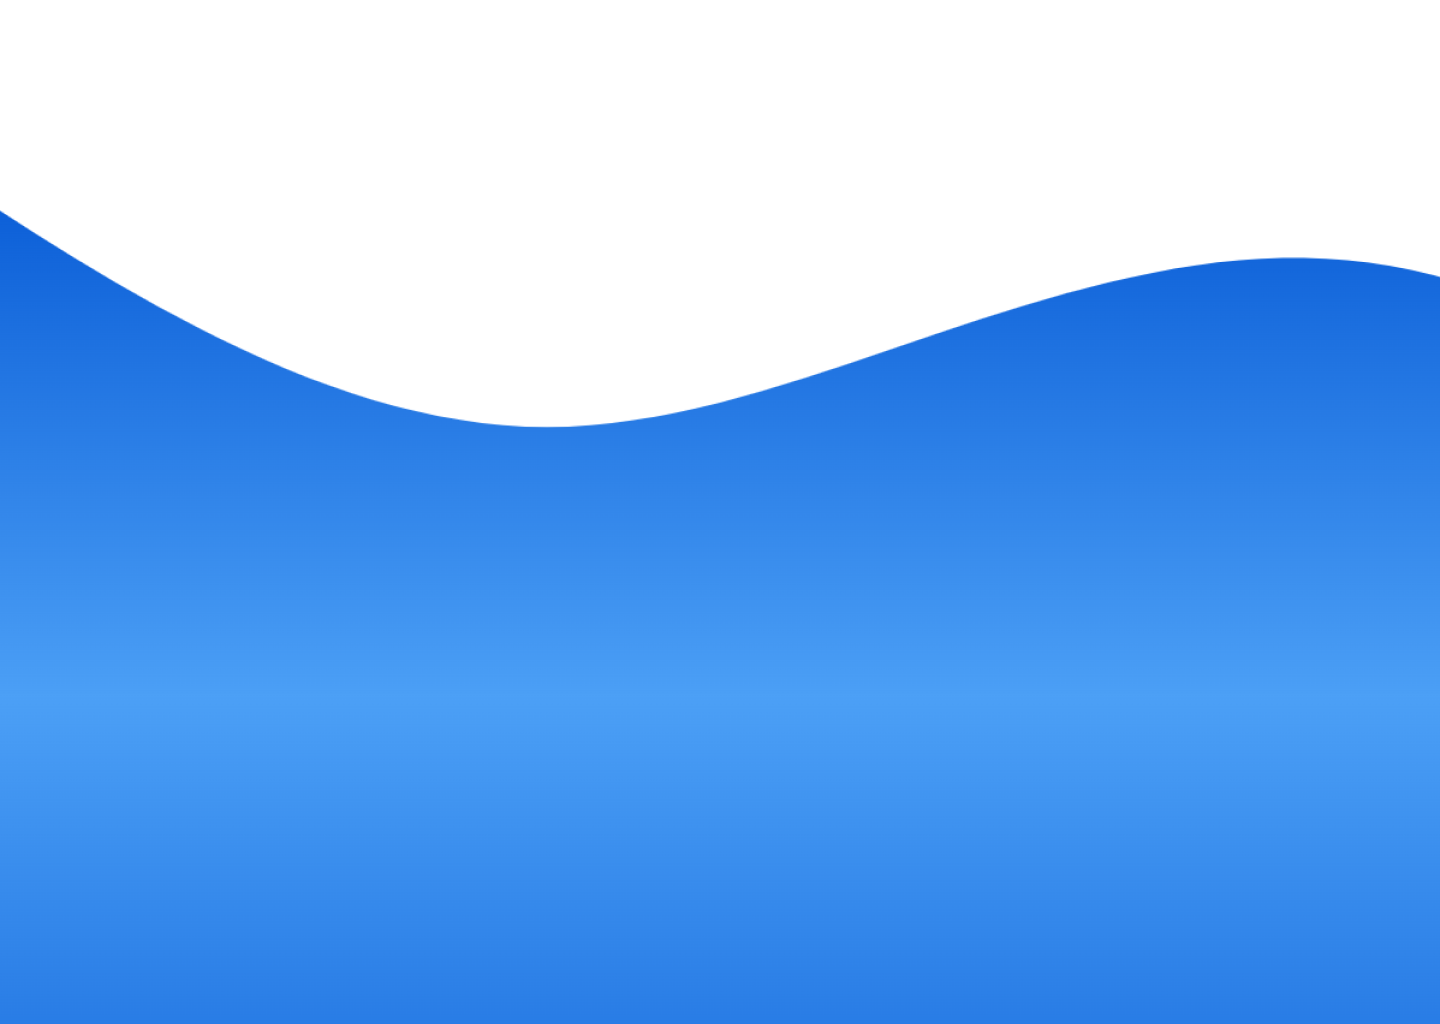
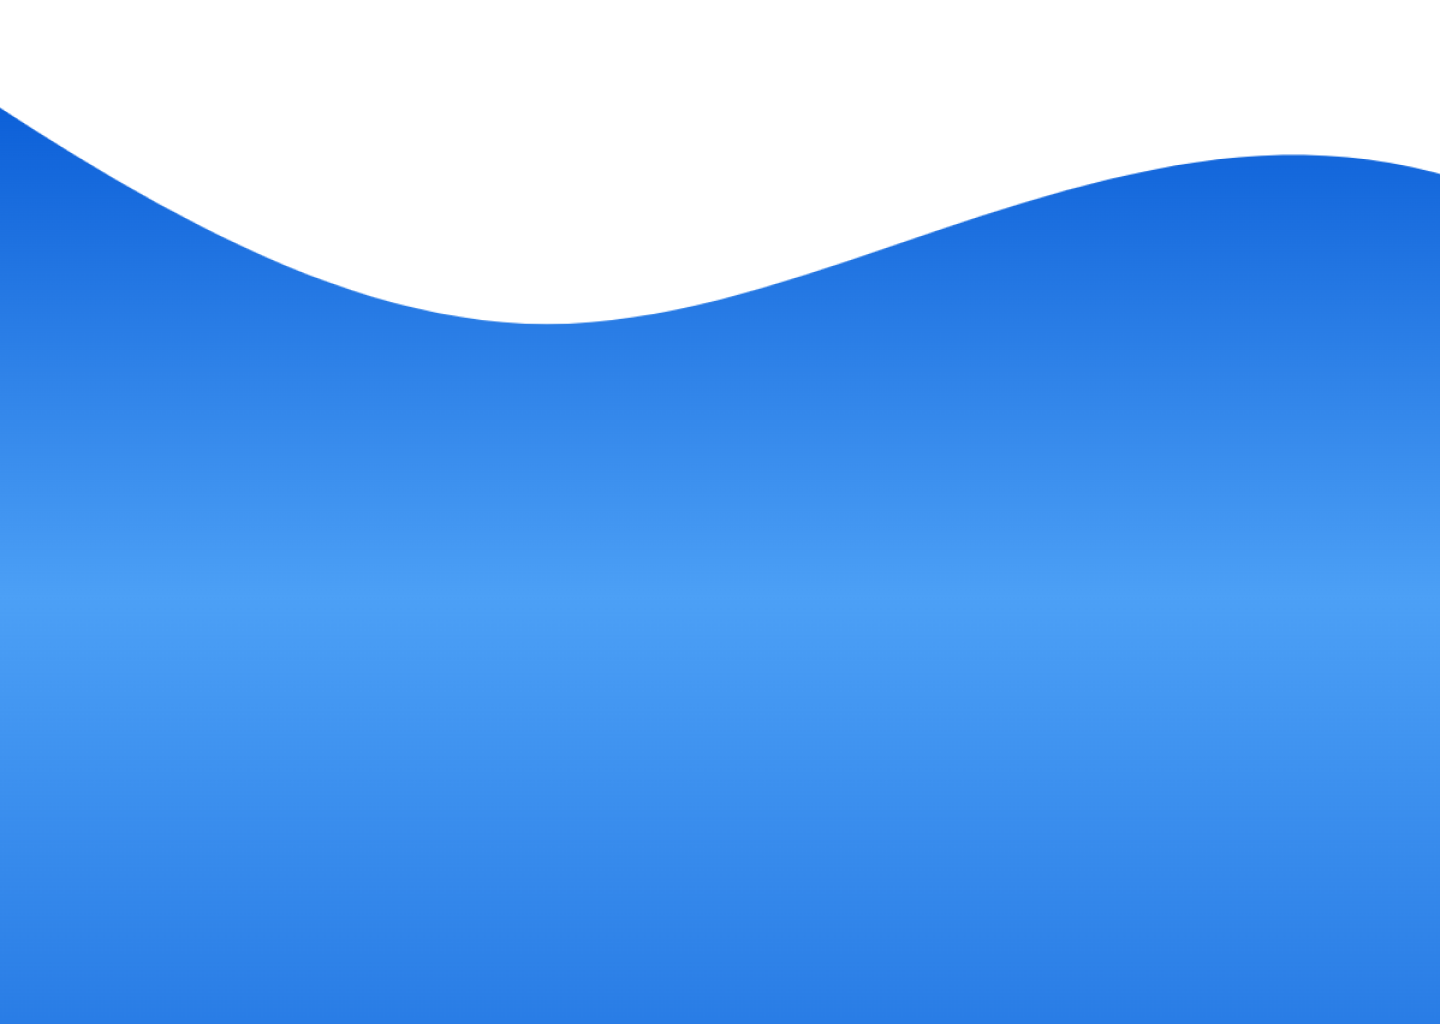
final signup form

Changed region(s): [[0.0, 0.0938, 1.0, 0.4375]]

diff --git a/css/style.css b/css/style.css
@@ -4,6 +4,11 @@
 	--form-height: 48rem;
 	--text-color: #414a4c;
 	--primary-color: #0166ff;
+	--secondary-color: #e15283;
+	--light: #fff;
+	--text-color: #777777;
+	--text-color-darker: #333333;
+	--icon-color: #999999;
 }
 
 *,
@@ -34,11 +39,14 @@ ul li {
 }
 
 p {
-	color: #777777;
+	color: var(--text-color);
 }
 a {
-	color: #0166ff;
-	text-underline-offset: 4px;
+	color: var(--primary-color);
+	text-underline-offset: 3px;
+}
+.link__signup {
+	text-transform: capitalize;
 }
 .divider {
 	width: 80%;
@@ -57,7 +65,10 @@ a {
 	text-underline-offset: 2px;
 }
 .color {
-	color: #0166ff;
+	color: var(--primary-color);
+}
+.color--2 {
+	color: var(--secondary-color);
 }
 
 /* Form styles */
@@ -73,7 +84,7 @@ a {
 	min-height: var(--form-height);
 	text-align: center;
 	border-radius: 2rem;
-	background-color: #fff;
+	background-color: var(--light);
 	transform: scale(0, 0);
 	opacity: 0;
 	visibility: hidden;
@@ -87,12 +98,10 @@ a {
 	transform: scale(1);
 	transition: all 0.5s ease-in;
 }
-.pattern {
-	position: absolute;
-	top: 50%;
-	left: 58%;
-	transform: translate(-50%, -50%);
-	z-index: -999;
+
+.form__group {
+	position: relative;
+	width: 100%;
 }
 
 .form-inactive {
@@ -102,13 +111,13 @@ a {
 }
 
 .form__title {
-	color: var(--text-color);
+	color: var(--primary-color);
 	text-transform: capitalize;
 	font-size: 3rem;
 }
 
 .form__subtitle {
-	color: #777777;
+	color: var(--text-color);
 	margin: 1rem 0;
 	font-weight: 400;
 }
@@ -131,12 +140,12 @@ a {
 	border-radius: 5px;
 	border: 1px solid #ccc;
 	font-family: inherit;
-	color: #333333;
+	color: var(--text-color-darker);
 	outline: 1px solid transparent;
 	transition: outline 0.4s;
 }
 .form__input:focus {
-	outline: 1px solid #0166ff;
+	outline: 1px solid var(--primary-color);
 }
 
 .form__inline {
@@ -157,13 +166,8 @@ a {
 	width: 1.8rem;
 }
 
-.form__group {
-	position: relative;
-	width: 100%;
-}
-
 .form__input:focus + .form__group__icon {
-	fill: #0166ff;
+	fill: var(--primary-color);
 }
 
 .form__group__icon {
@@ -172,7 +176,7 @@ a {
 	top: 50%;
 	transform: translateY(-50%);
 	left: 10px;
-	fill: #999999;
+	fill: var(--icon-color);
 }
 
 .btn {
@@ -183,10 +187,10 @@ a {
 	width: 100%;
 	font-size: 1.5rem;
 	font-family: inherit;
-	background: #0166ff;
+	background: var(--primary-color);
 	padding: 1.2rem 2rem;
 	border: none;
-	color: #fff;
+	color: var(--light);
 	border-radius: 6px;
 	font-weight: 600;
 	margin-top: 1rem;
@@ -194,7 +198,7 @@ a {
 	overflow: hidden;
 }
 .btn--signup:hover {
-	background-color: #0059df;
+	background-color: var(--primary-color);
 }
 
 .btn--signup:hover::before {
@@ -219,11 +223,10 @@ a {
 	padding-top: 4rem;
 	position: fixed;
 	width: 100%;
-	min-height: 100vh;
+	height: 100%;
 	background-image: url("../images/bg.png");
 	background-size: cover;
 	background-repeat: no-repeat;
-	background-position-y: -200px;
 	transition: all 0.2s;
 	opacity: 0;
 	visibility: hidden;
@@ -232,4 +235,26 @@ a {
 .overlay-active {
 	opacity: 1 !important;
 	visibility: visible !important;
+}
+
+.pattern {
+	position: absolute;
+	top: 50%;
+	left: 58%;
+	transform: translate(-50%, -50%);
+	z-index: -999;
+	height: 34rem;
+}
+
+@media only screen and (max-width: 600px) {
+	html {
+		font-size: 50%;
+	}
+	.overlay {
+		padding-left: 2rem;
+		padding-right: 2rem;
+	}
+	.pattern {
+		display: none;
+	}
 }

diff --git a/index.html b/index.html
@@ -11,7 +11,7 @@
 	<body>
 		<div class="overlay">
 			<form action="#" class="form">
-				<h1 class="form__title color">Sign Up</h1>
+				<h1 class="form__title">Sign Up</h1>
 				<h2 class="form__subtitle">
 					Sign up for <strong class="color">5%</strong> discount off all
 					purchases
@@ -24,6 +24,7 @@
 							name="username"
 							id="username"
 							autocomplete="off"
+							aria-label="username text field"
 						/>
 						<svg
 							class="form__group__icon"
@@ -44,6 +45,7 @@
 							name="email"
 							id="email"
 							autocomplete="off"
+							aria-label="email text field"
 						/>
 						<svg
 							class="form__group__icon"
@@ -64,6 +66,7 @@
 							name="password"
 							id="password"
 							autocomplete="off"
+							aria-label="password text field"
 						/>
 						<svg
 							class="form__group__icon"
@@ -83,6 +86,7 @@
 							name="subscribe"
 							id="subscribe"
 							class="form__checkbox"
+							aria-label="newsletter checkbox"
 						/>
 						<p class="form__inline-text">
 							I want to subscribe to the newsletter
@@ -91,9 +95,10 @@
 					<div class="form__inline">
 						<input
 							type="checkbox"
-							name="subscribe"
-							id="subscribe"
+							name="terms"
+							id="terms"
 							class="form__checkbox"
+							aria-label="terms and conditions checkbox"
 						/>
 						<p class="form__inline-text">
 							I agree to the <a href="#">Terms and Conditions</a> of
